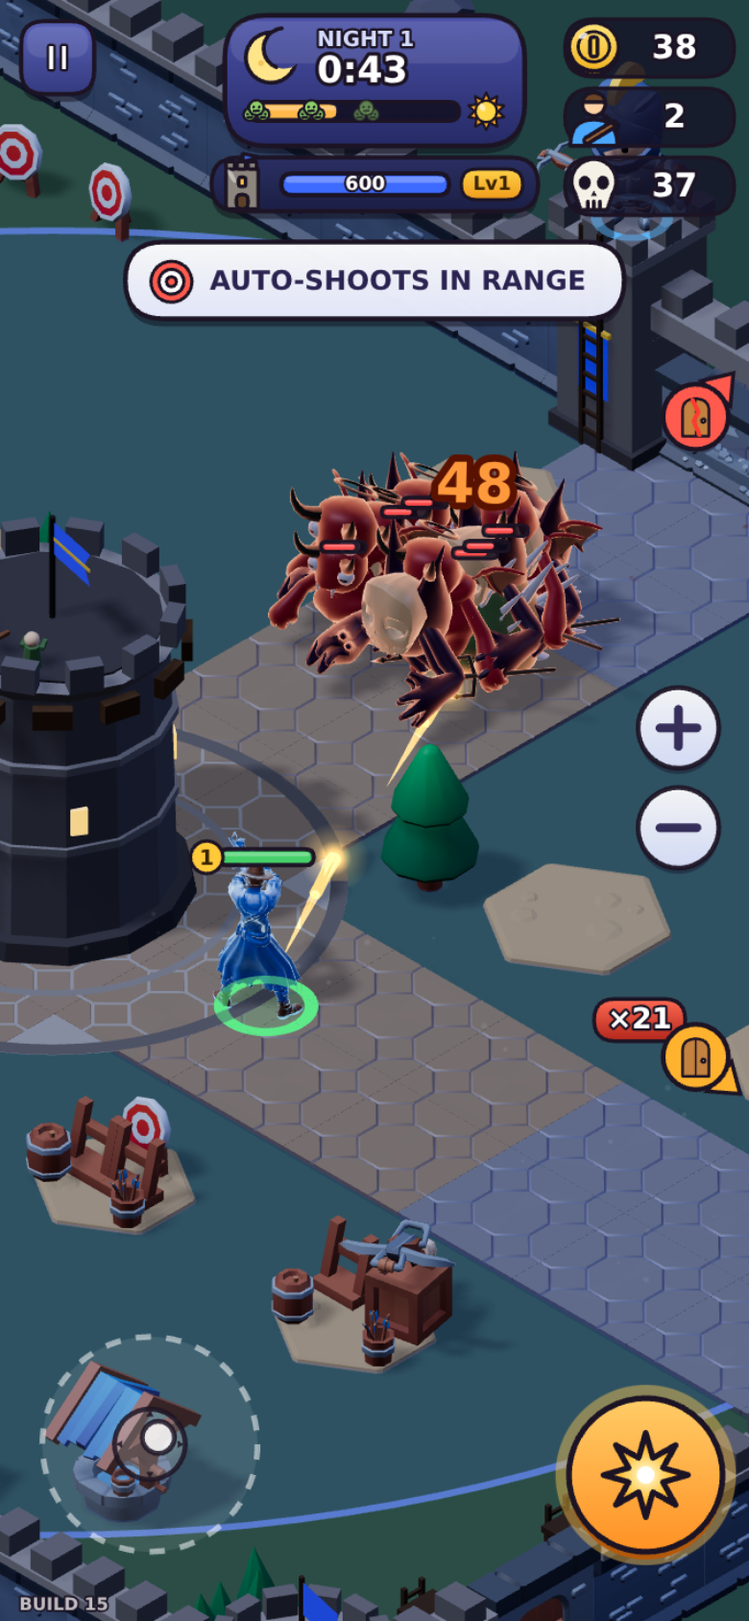
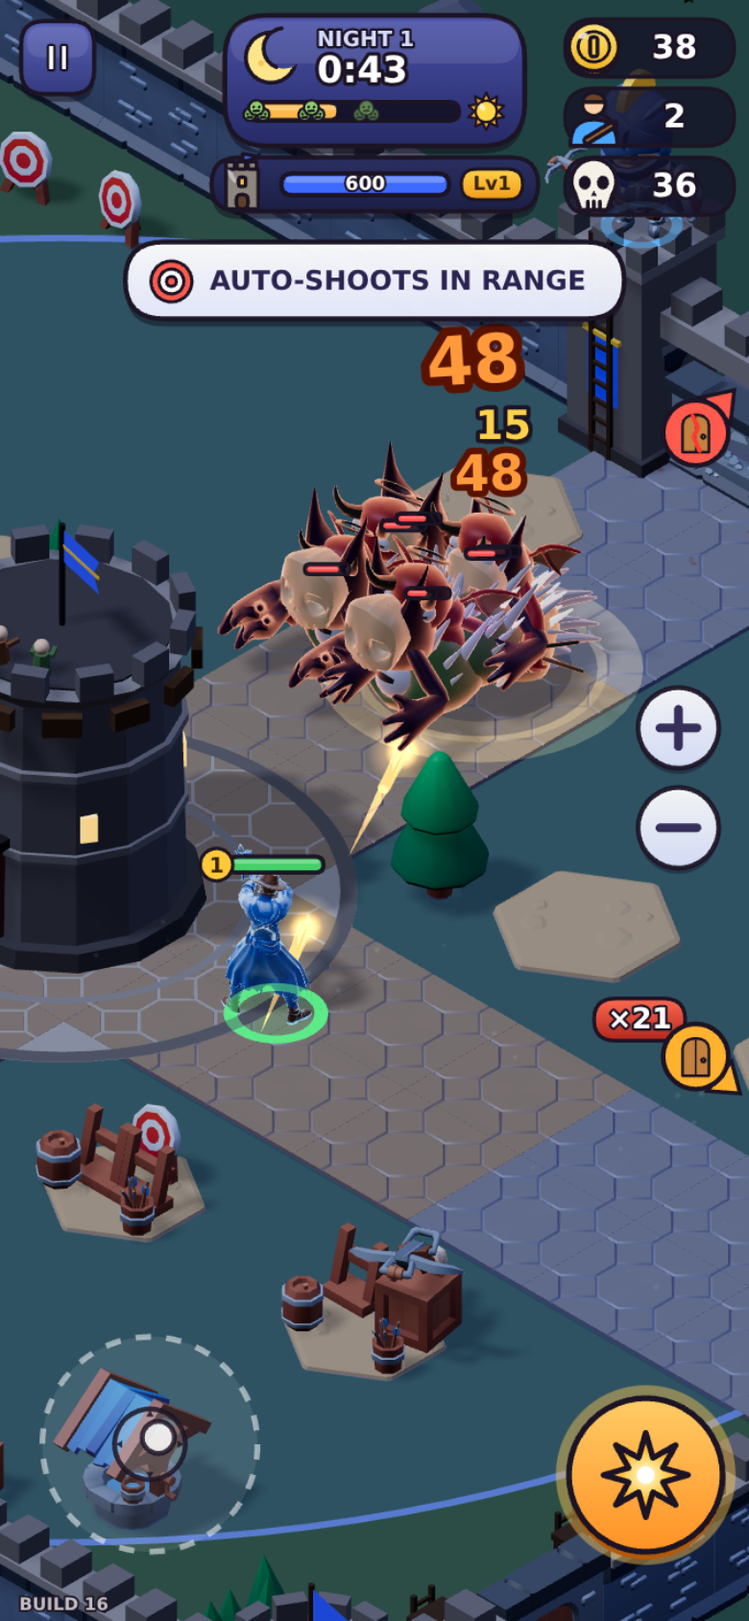
BUILD 16: docs + evidence — roadmap Pass BUILD 16 + acceptance #20, UX research R5/R6 status, qa-evidence/survival-build16
- plotsqa section 8 waits on the sim undrawn (__pFast) and draws only the
  judged moments (hundreds of queued DPR-2 frames stalled a screenshot);
  the scripted keep is clamped before the dawn card
- completeNight: the dawn's keep patch is never negative (a keep above its
  max — only in scripted QA — read '+-34790' on the card)
- evidence: night-cleared-sequence, compare-pointers (BUILD 15 vs 16),
  wave-call, last-one, tempo-5seed-72s (uxprobe before/after),
  balance-5seed-72s; FTUE frames re-stamped BUILD 16 by envqa

diff --git a/src/game/survival.js b/src/game/survival.js
@@ -3794,7 +3794,7 @@ export class SurvivalMode {
     // the keep as dawn found it (the end panel's "keep left", before the patch)
     this._keepAtDawn = this.keepHp / Math.max(1, this.keepHpMax());
     // the townsfolk patch part of the keep for free; the rest is wood by day
-    const missing = this.keepHpMax() - this.keepHp;
+    const missing = Math.max(0, this.keepHpMax() - this.keepHp);
     const patched = Math.round(missing * this.tuning.keepDawnHeal);
     this.keepHp = Math.min(this.keepHpMax(), this.keepHp + patched);
     this.repairDoors();

diff --git a/docs/REBUILD-ROADMAP.md b/docs/REBUILD-ROADMAP.md
@@ -1,7 +1,110 @@
 # Status Rebuild 3D & Survival Milestone 1
 
-**Pembaruan:** 2026-10-18 (Asia/Makassar), BUILD 15
-**Status keseluruhan: MASIH TERBUKA — bukan klaim siap rilis.** Inti rebuild dunia 3D dan loop Survival Milestone 1 sudah terimplementasi. Pada 2026-10-12 arah UI/UX dan threat model dikoreksi mengikuti feedback user; pada 2026-10-15 dilakukan pass analisis gap & bug (lihat bagian "Gap & bug pass 2026-10-15"), lalu pass progres Hunter + level bangunan (lihat "Progres Hunter & level bangunan"), lalu pass menara crossbow (lihat "Menara crossbow"), lalu pass guard yang bisa jatuh (lihat "Guard bisa jatuh"; termasuk perbaikan bug gelombang yang muncul di dalam rumah), dan seluruh gate otomatis dijalankan ulang. Setelah itu user memutuskan **game landscape only** dan meminta brainstorming + design system plan sebelum koding lagi (lihat "Arah desain & orientasi" dan `docs/DESIGN-SYSTEM-PLAN.md`; belum ada perubahan kode game untuk arah ini). Revisi 1 desain (konsep api) ditolak user. Di revisi 2 user memilih konsep **K1 "Benteng Terakhir"**, pola build **jalan ke lingkaran + BUILD**, dan nada **dark stylized**, lalu menyetujui semua rekomendasi aturan dan meminta "pastikan dunianya 3D". K1 kini **terimplementasi sebagai vertical slice** (lihat "K1 Benteng Terakhir — implementasi"); acceptance manusia/perangkat untuk K1 belum ada. Atas feedback user berikutnya, Survival kini dimainkan di **dunia benteng (bailey)** baru, bukan di dalam ruangan mansion (lihat "Dunia benteng untuk Survival"). Setelah itu kedua bookend cerita K1 dibuat: **intro sinematik** di malam pertama dan **adegan bala bantuan tiba** di fajar ke-3 (lihat "Bookend K1"); pemahaman pemain atas keduanya belum diuji. Lalu dibuat **riset UX & replay** dari review pemain (Play Store, Steam, Reddit, dan platform review lain) plus playtest bot "sebagai gamer" (lihat "Riset UX & replay" dan `docs/UX-REPLAY-RESEARCH.md`). Riset itu lalu diperdalam atas permintaan user agar tidak ada coding: v2 menambah review bintang 5, persona, peta perjalanan, dan protokol playtest; v3 menambah pemain Indonesia, analisis loop 3 lapis, dan uji HP kelas bawah. Setelah itu, atas feedback user, dibuat pass perbaikan: benteng diperkecil dan aktor diperbesar, pasukan memakai GLB (KayKit Knight, CC0), efek tembakan/damage diperkuat, kerja bangunan dibuat terlihat, dan UI dirapikan (NIGHT dipisah dari BUILD, panel fajar/akhir menghitung kontribusi). Dari rekomendasi riset, yang terbangun baru R1 sebagian, R18a, dan R19 (lihat "Perbaikan dari feedback user"). Lalu pesan "next" berikutnya dikerjakan sebagai P0 riset **"Momen akhir run"**: bintang 1–3, rekor + NEW BEST!, panel kalah "Ns TO DAWN" + satu tip dari penyebab nyata, dan MVP bangunan (R1–R4, R19; lihat "Momen akhir run"). R5 dan R6 belum. Lalu user melapor "tidak ada perubahan" (2026-10-17): dibuat **pass visual besar** — build yang benar sampai ke layar (service worker hanya di host rilis, preview tanpa cache, stempel BUILD 8), bailey setengah ukuran dengan aktor ×1,6 dan kamera lebih dekat, seluruh horde monster GLB (vertex animation texture), knight dimuat saat boot dengan helm biru berjambul, efek tembakan/damage lebih besar, ballista yang membunuh dan menandai kill-nya, koin mine di HUD, dan penanda gerbang dengan jumlah musuh (lihat "Pass visual besar"). Lalu user meminta lima perbaikan lagi (2026-10-17, "ada beberapa masih perlu di fix"): kamera dijauhkan sedikit dan bisa digeser, plot bangunan ditata rapi, bangunan memakai aset gratis yang diunduh (bukan prototipe), kartu diperkecil, dan trailer pembuka dipertahankan. Kelimanya terimplementasi di **BUILD 9** (lihat "Pass perbaikan BUILD 9"). Lalu user meminta gambar karakter manusia yang cerah dengan senjata terpisah (folder `ASSET_CHARACTER`, gambar konsep AI atas permintaan user) dan aturan gerbang yang benar. Di **BUILD 10** gerbang tertutup menahan tembakan, gerbang hanya terbuka untuk kapten, dan untuk melawan, kapten keluar ke mulut gerbang atau ke luar benteng (lihat "Pass BUILD 10"). Lalu user melapor kapten berjalan sendiri keluar benteng dan bailey terlihat terlalu padat. Di **BUILD 11** kapten tidak lagi digerakkan apa pun selain stick, gerbang hanya terbuka untuk arah stick, setiap jenis bangunan punya warna sendiri, plot terkunci dan tiang hantu disembunyikan, dan props dikurangi (lihat "Pass BUILD 11"). Lalu user melapor ukuran world dan tata letak bangunan masih sama, dan meminta riset visual dan UI/UX game sejenis tanpa coding. Riset itu ada di `docs/VISUAL-LAYOUT-RESEARCH.md` (lihat "Riset visual & tata letak"). User lalu memilih **Opsi B**, meminta peta Rise of Kingdoms dicek dulu, dan meminta kamera yang bisa diperbesar, diperkecil, dan digeser. Ketiganya dikerjakan di **BUILD 12**: bailey ×1,6 dengan distrik per fungsi dan plaza Keep, plus kamera dinamis (lihat "Pass BUILD 12"). Lalu user menulis "lanjut": 7 senjata `ASSET_CHARACTER` yang tersisa dibuat (kini 18/18), dan empat usulan "murah tapi terlihat jelas" dari riset §7 dikerjakan di **BUILD 13**: kapten terang (V8), label hanya saat dekat (V4), angka damage kecil yang digabung (V9), dan gerbang malam ini terlihat di siang hari (V10) (lihat "Pass BUILD 13"). Lalu user menulis "next": di **BUILD 14** senjata pasukan bisa di-upgrade. Ada rak senjata baru di samping armory dengan 3 level crossbow guard, yang terlihat di tangan setiap guard dan di warna bautnya. Pass ini juga memperbaiki bug lama: crossbow guard tidak pernah terpasang di tangan (lihat "Pass BUILD 14"). Lalu user menulis "next" lagi: di **BUILD 15** pertarungan malam dibuat terlihat utuh (V6 + V7 riset). Kamera malam condong ke gerombolan, pohon di kill zone depan gerbang ditebang jadi tunggul, menara di sisi dekat kamera direndahkan, dan kapten tampil sebagai siluet biru saat tertutup (lihat "Pass BUILD 15"). Acceptance visual/manual di perangkat, playtest manusia, dan packaging Play masih terbuka. Hasil tiap skrip hanya berlaku untuk cakupan yang benar-benar diuji.
+**Pembaruan:** 2026-10-18 (Asia/Makassar), BUILD 16
+**Status keseluruhan: MASIH TERBUKA — bukan klaim siap rilis.** Inti rebuild dunia 3D dan loop Survival Milestone 1 sudah terimplementasi. Pada 2026-10-12 arah UI/UX dan threat model dikoreksi mengikuti feedback user; pada 2026-10-15 dilakukan pass analisis gap & bug (lihat bagian "Gap & bug pass 2026-10-15"), lalu pass progres Hunter + level bangunan (lihat "Progres Hunter & level bangunan"), lalu pass menara crossbow (lihat "Menara crossbow"), lalu pass guard yang bisa jatuh (lihat "Guard bisa jatuh"; termasuk perbaikan bug gelombang yang muncul di dalam rumah), dan seluruh gate otomatis dijalankan ulang. Setelah itu user memutuskan **game landscape only** dan meminta brainstorming + design system plan sebelum koding lagi (lihat "Arah desain & orientasi" dan `docs/DESIGN-SYSTEM-PLAN.md`; belum ada perubahan kode game untuk arah ini). Revisi 1 desain (konsep api) ditolak user. Di revisi 2 user memilih konsep **K1 "Benteng Terakhir"**, pola build **jalan ke lingkaran + BUILD**, dan nada **dark stylized**, lalu menyetujui semua rekomendasi aturan dan meminta "pastikan dunianya 3D". K1 kini **terimplementasi sebagai vertical slice** (lihat "K1 Benteng Terakhir — implementasi"); acceptance manusia/perangkat untuk K1 belum ada. Atas feedback user berikutnya, Survival kini dimainkan di **dunia benteng (bailey)** baru, bukan di dalam ruangan mansion (lihat "Dunia benteng untuk Survival"). Setelah itu kedua bookend cerita K1 dibuat: **intro sinematik** di malam pertama dan **adegan bala bantuan tiba** di fajar ke-3 (lihat "Bookend K1"); pemahaman pemain atas keduanya belum diuji. Lalu dibuat **riset UX & replay** dari review pemain (Play Store, Steam, Reddit, dan platform review lain) plus playtest bot "sebagai gamer" (lihat "Riset UX & replay" dan `docs/UX-REPLAY-RESEARCH.md`). Riset itu lalu diperdalam atas permintaan user agar tidak ada coding: v2 menambah review bintang 5, persona, peta perjalanan, dan protokol playtest; v3 menambah pemain Indonesia, analisis loop 3 lapis, dan uji HP kelas bawah. Setelah itu, atas feedback user, dibuat pass perbaikan: benteng diperkecil dan aktor diperbesar, pasukan memakai GLB (KayKit Knight, CC0), efek tembakan/damage diperkuat, kerja bangunan dibuat terlihat, dan UI dirapikan (NIGHT dipisah dari BUILD, panel fajar/akhir menghitung kontribusi). Dari rekomendasi riset, yang terbangun baru R1 sebagian, R18a, dan R19 (lihat "Perbaikan dari feedback user"). Lalu pesan "next" berikutnya dikerjakan sebagai P0 riset **"Momen akhir run"**: bintang 1–3, rekor + NEW BEST!, panel kalah "Ns TO DAWN" + satu tip dari penyebab nyata, dan MVP bangunan (R1–R4, R19; lihat "Momen akhir run"). R5 dan R6 belum. Lalu user melapor "tidak ada perubahan" (2026-10-17): dibuat **pass visual besar** — build yang benar sampai ke layar (service worker hanya di host rilis, preview tanpa cache, stempel BUILD 8), bailey setengah ukuran dengan aktor ×1,6 dan kamera lebih dekat, seluruh horde monster GLB (vertex animation texture), knight dimuat saat boot dengan helm biru berjambul, efek tembakan/damage lebih besar, ballista yang membunuh dan menandai kill-nya, koin mine di HUD, dan penanda gerbang dengan jumlah musuh (lihat "Pass visual besar"). Lalu user meminta lima perbaikan lagi (2026-10-17, "ada beberapa masih perlu di fix"): kamera dijauhkan sedikit dan bisa digeser, plot bangunan ditata rapi, bangunan memakai aset gratis yang diunduh (bukan prototipe), kartu diperkecil, dan trailer pembuka dipertahankan. Kelimanya terimplementasi di **BUILD 9** (lihat "Pass perbaikan BUILD 9"). Lalu user meminta gambar karakter manusia yang cerah dengan senjata terpisah (folder `ASSET_CHARACTER`, gambar konsep AI atas permintaan user) dan aturan gerbang yang benar. Di **BUILD 10** gerbang tertutup menahan tembakan, gerbang hanya terbuka untuk kapten, dan untuk melawan, kapten keluar ke mulut gerbang atau ke luar benteng (lihat "Pass BUILD 10"). Lalu user melapor kapten berjalan sendiri keluar benteng dan bailey terlihat terlalu padat. Di **BUILD 11** kapten tidak lagi digerakkan apa pun selain stick, gerbang hanya terbuka untuk arah stick, setiap jenis bangunan punya warna sendiri, plot terkunci dan tiang hantu disembunyikan, dan props dikurangi (lihat "Pass BUILD 11"). Lalu user melapor ukuran world dan tata letak bangunan masih sama, dan meminta riset visual dan UI/UX game sejenis tanpa coding. Riset itu ada di `docs/VISUAL-LAYOUT-RESEARCH.md` (lihat "Riset visual & tata letak"). User lalu memilih **Opsi B**, meminta peta Rise of Kingdoms dicek dulu, dan meminta kamera yang bisa diperbesar, diperkecil, dan digeser. Ketiganya dikerjakan di **BUILD 12**: bailey ×1,6 dengan distrik per fungsi dan plaza Keep, plus kamera dinamis (lihat "Pass BUILD 12"). Lalu user menulis "lanjut": 7 senjata `ASSET_CHARACTER` yang tersisa dibuat (kini 18/18), dan empat usulan "murah tapi terlihat jelas" dari riset §7 dikerjakan di **BUILD 13**: kapten terang (V8), label hanya saat dekat (V4), angka damage kecil yang digabung (V9), dan gerbang malam ini terlihat di siang hari (V10) (lihat "Pass BUILD 13"). Lalu user menulis "next": di **BUILD 14** senjata pasukan bisa di-upgrade. Ada rak senjata baru di samping armory dengan 3 level crossbow guard, yang terlihat di tangan setiap guard dan di warna bautnya. Pass ini juga memperbaiki bug lama: crossbow guard tidak pernah terpasang di tangan (lihat "Pass BUILD 14"). Lalu user menulis "next" lagi: di **BUILD 15** pertarungan malam dibuat terlihat utuh (V6 + V7 riset). Kamera malam condong ke gerombolan, pohon di kill zone depan gerbang ditebang jadi tunggul, menara di sisi dekat kamera direndahkan, dan kapten tampil sebagai siluet biru saat tertutup (lihat "Pass BUILD 15"). Lalu user menulis "next" lagi: di **BUILD 16** tempo malam diperbaiki (R5 + R6 riset UX). Malam yang dibersihkan kini berakhir lebih cepat dengan bonus emas, sisa gerombolan yang tidak sedang bertarung lari ke hutan, dan setiap gelombang dipanggil dengan nama gerbangnya dan terompet. Pass ini juga memperbaiki panah tepi malam di HP landscape, yang kini berada di bingkai area main, bukan di dekat kepala kapten (lihat "Pass BUILD 16"). Acceptance visual/manual di perangkat, playtest manusia, dan packaging Play masih terbuka. Hasil tiap skrip hanya berlaku untuk cakupan yang benar-benar diuji.
+
+## Pass BUILD 16 — tempo malam: fajar lebih cepat, gelombang dipanggil (2026-10-18)
+
+**Pesan user:** "next" (setelah BUILD 15). Saya baca sebagai: kerjakan item terbuka berikutnya. Yang saya pilih adalah sisa P0 riset UX: **R5** (fajar lebih cepat) dan **R6** (kontak pertama ≤ 5 dtk). Keduanya terukur buruk di `survival-uxprobe` pada kode BUILD 15:
+- malam 3 yang dimenangkan berakhir dengan **7,7–9,6 dtk menunggu jam** setelah kill terakhir (bot builder; bot tower 10,9–14,2 dtk);
+- di malam 2–3 gerbang pertama baru diserang **4,4–5,1 dtk** setelah malam mulai, dan target pertama kapten bot builder baru muncul di 14,0–16,4 dtk.
+
+V1 dan V3 dari riset visual (butuh pass aset) belum dikerjakan.
+
+Stempel di layar kini **BUILD 16**, service worker `duskhold-v16`.
+
+### Yang baru di game
+
+**1. NIGHT CLEARED (R5).** Begitu semua spawn malam itu sudah keluar dan tidak ada musuh yang masih berdiri:
+- banner emas **"NIGHT CLEARED!"** dengan sub "DAWN COMES EARLY · +N GOLD", plus bunyi lonceng fajar;
+- pill malam berubah emas (matahari, "CLEARED / DAWN"), dan bar waktunya berlari ke ikon matahari;
+- cahaya **menghangat selama 2 detik**: rig cahaya dan warna tanah di-blend dari malam ke siang, lalu fajar datang. Fajar terlihat datang, bukan dipotong;
+- setiap detik penuh yang dihemat = **1 emas**. Bonus ini tampil sebagai baris sendiri di kartu fajar (koin dengan jam), dan judul kartu menjadi "NIGHT 2 CLEARED!" (bukan SURVIVED);
+- mine dibayar sisa shift malam yang tidak sempat digali, jadi fajar cepat tidak pernah mengurangi pendapatan.
+
+Reload di tengah 2 detik itu mempertahankan jam fajarnya. Malam yang "dibersihkan" dalam 2 detik terakhir tetap berakhir di jam biasa (sub "DAWN IS HERE", tanpa bonus).
+
+**2. Gerombolan pecah (tambahan saya, di luar usulan riset).** Saat diukur, aturan R5 murni hampir tidak pernah terpicu. Yang menahan malam bukan papan yang kosong, tapi **1–3 pejalan lambat terakhir** (Breaker 48 px/dtk, Individual) yang memutari tembok menuju gerbang jauh, lebih dari 1.000 px dari pertarungan mana pun. Mereka baru sampai setelah fajar. Maka, begitu semua spawn sudah keluar dan sisa musuh **≤ 3**:
+- yang **tidak sedang bertarung** berbalik dan lari ke hutan (120 px/dtk) dan hilang setelah 1,5 dtk. Ini **bukan kill**. "Sedang bertarung" berarti: di dalam tembok, di 200 px terakhir menuju gerbang, menyerang/mencakar, menyerang Keep, atau dalam jangkauan tembak kapten (540 px);
+- yang **masih bertarung** ditandai: banner **"LAST N!"** (sub "CLEAR THEM FOR AN EARLY DAWN"), chip tengkorak merah di atasnya, atau panah merah di tepi layar bila di luar layar;
+- setelah semuanya habis, banner NIGHT CLEARED berbunyi "THE REST FLED · +N GOLD".
+
+**3. Gelombang dipanggil (R6).**
+- Malam 2–3 melepas gelombang 1 di **1,5 %** malam (1,08 dtk; dulu 4 % = 2,88 dtk). Malam 1 tetap 4 %, karena trailer pembuka menyerahkan kendali tepat di tanda gelombang pertama, jadi di sana tidak ada detik kosong.
+- Setiap gelombang memunculkan banner "WAVE 1/3" dengan **nama gerbang dan jumlahnya** ("WEST GATE ×24", "SE POSTERN ×30"). Breaker: "BREAKER!" + "SOUTH GATE".
+- **Terompet horde** (suara prosedural baru, lebih rendah dan kasar dari terompet kapten) berbunyi untuk setiap gelombang dan Breaker, dari sisi layar tempat gerbangnya berada.
+- Panah tepi ke gerbang gelombang sudah ada sejak pass visual (ikon horde + ×N).
+
+**4. Bug lama yang ketemu: panah tepi malam di HP landscape duduk di atas kapten.** Kotak tempat panah tepi malam berjalan masih memakai margin portrait (128 px atas, 150 px bawah). Di layar 390 px, kotak itu tinggal pita 92 px di tengah layar, jadi panah ke gerbang di samping duduk dekat kepala kapten. Sekarang (`nightPointerBand`), di layar landscape panah berjalan di **bingkai area main**: 84 px di bawah tepi atas, 100 px di atas tepi bawah, 28 px dari sisi. Panah juga menghindari tombol zoom, FLARE, dan counter di tepi kanan. Ini berlaku untuk semua panah malam: gerbang, LAST N, Keep diserang, dan guard jatuh. Panah siang V10 sudah punya kotaknya sendiri.
+
+### Hasil terukur
+
+`survival-uxprobe`, 5 seed, malam 72 dtk. BUILD 15 diukur dengan probe yang sama di worktree `f9c1b1d`.
+
+| Ukuran | BUILD 15 | BUILD 16 |
+|---|---|---|
+| Ekor kosong (kill terakhir → fajar), malam 3, bot builder | 7,7–9,6 dtk | **2,0 dtk** |
+| Sama, bot tower | 10,9–14,2 dtk | **1,4–2,1 dtk** |
+| Sama, malam 2, bot builder | 0,1–10,3 dtk | **2,0–2,1 dtk** |
+| Malam 2 + 3 yang berakhir lebih cepat (NIGHT CLEARED), bot builder + tower | 0 dari 20 | **20 dari 20** |
+| Fajar malam 3 (jam) | 72 dtk | builder 65,3–66,5 dtk; tower 59,1–62,2 dtk |
+| Bonus emas fajar cepat | — | malam 2: 3–11; malam 3: 5–12 (malam 3: tidak terpakai, run selesai) |
+| Gerbang pertama diserang ("kontak"), malam 2–3 | 4,4–5,1 dtk | **2,6–3,2 dtk** |
+| Sama, malam 1 (tanpa trailer di probe; di browser trailer menyerahkan kendali di 2,88 dtk) | 4,9–5,4 dtk | sama (tidak diubah) |
+| Target pertama kapten bot builder, malam 2 / malam 3 | 16,3–16,4 / 14,0–14,4 dtk | **14,3–14,7 / 12,3–12,5 dtk** |
+| Target pertama pemain "rally" (langsung berjalan ke gerbang gelombang 1), malam 1 / 2 / 3 | 7,2–8,7 / 11,5 / 9,6 dtk | sama |
+| Panah gerbang barat/utara di layar 844×390, kapten di Keep | dekat kepala kapten (pita y 138–230) | di bingkai atas area main (y 94), 163–171 px dari kapten |
+
+`rally` adalah pemain baru khusus probe: bot builder di siang hari yang saat malam mulai langsung berjalan ke gerbang yang dipanggil, lalu memburu "LAST N" saat tidak ada pertarungan lain. Bot balance tidak memakainya.
+
+**Target R6 belum tercapai sepenuhnya.** Ukuran berhasil di riset adalah "target pertama ≤ 5 dtk di semua malam". Yang tercapai adalah gerbang diserang ≤ 5 dtk. Target pertama kapten masih 9,6–14,7 dtk, karena yang dominan adalah jalan kaki dari Keep ke gerbang (6–8 dtk dengan lari 196 px/dtk), bukan gelombangnya.
+
+### Balance (5 seed × 7 bot, malam 72 dtk)
+
+- **Malam 1 identik dengan BUILD 15** di seluruh 35 run (baris N1 sama persis).
+- Menang/kalah sama: idle, active, keep-builder 0/5; builder, tower-builder, hunter-builder 5/5 ★★★; arms-builder 5/5 dengan ★ 3,1,3,3,3 (BUILD 15: 3,1,3,1,1).
+- Waktu kalah active dan keep-builder bergeser 1–6 dtk.
+
+Catatan: versi pertama melepas gelombang 1 lebih cepat di **semua** malam. Di satu seed, Keep malam 1 lalu turun ke 20 % (★ turun ke 1 untuk tiga bot terkuat), karena gerbang utara dicakar ±2 dtk lebih lama sebelum bot sampai. Malam 1 sudah tidak punya detik kosong di browser (trailer), jadi perubahan itu dibatasi ke malam 2–3.
+
+### QA yang dijalankan (BUILD 16)
+
+| Perintah | Hasil |
+|---|---|
+| `node tools/harness.mjs` | **76/76 cek PASS** (+3 cek BUILD 16). (1) NIGHT CLEARED: banner + emas, fajar tepat 2 dtk kemudian, bonus = detik penuh yang dihemat (+19), bayaran sisa shift mine, cahaya 0 → 0,5 → 1 (exposure 1,08 → 1,13), reload mempertahankan jam fajar, tidak ada clear saat spawn masih tersisa atau papan disapu dengan tangan. (2) Gerombolan pecah: dua Individual jauh lari dan hilang tanpa kill, yang mencakar gerbang barat tetap ada dan dipanggil "LAST 1!", lalu malam cleared dengan "THE REST FLED". (3) R6: gelombang 1 malam 2–3 di 1,08 dtk, malam 1 di 2,88 dtk; panggilan "NORTH GATE ×21" / "WEST GATE ×24" / "SE POSTERN ×30"; terompet per gelombang dan per Breaker; gerbang dicakar di 2,8 dtk di malam 2–3 dengan kapten diam di Keep. Satu cek lama disesuaikan (guard jatuh yang ditinggal 20 dtk hilang): skenarionya menyapu gerombolan dari papan, yang kini memicu NIGHT CLEARED, jadi skenario itu kini menandai malamnya tanpa spawn |
+| `node tools/survival-plotsqa.mjs` | **30/30 PASS** (+3 cek B16 di browser). (1) NIGHT CLEARED: pill emas, luminansi tanah 96 → 110 (saat clear) → 133 (+1 dtk) → 162 (fajar), kartu fajar "NIGHT 2 CLEARED!" dengan baris emas. (2) "WAVE 1/3 · WEST GATE ×24" dengan terompet. (3) "LAST 1!" dan panah tengkorak di bingkai atas area main (y 94), 168 px dari kapten |
+| `node tools/survival-devqa.mjs` | **25/25 PASS** |
+| `node tools/envqa.mjs --mode=3d-smoke` | **PASS**. Bukti FTUE `qa-evidence/survival-ftue-*` ikut diperbarui dengan stempel BUILD 16 |
+| `node tools/survival-intro.mjs` | **PASS** (malam 1 tidak berubah: trailer menyerahkan kendali di tanda gelombang pertama) |
+| `node tools/survival-fxshots.mjs` | **14/14 PASS** (menang 3 malam nyata di browser: kill 66 + 78 + 91) |
+| `node tools/layoutqa.mjs` | Run pertama FAIL di cek gerak keyboard mode legacy: pemain bergerak maks 6,3 px dalam 1 dtk waktu nyata (batas 8 px). Ini cek waktu nyata di mode legacy, yang tidak disentuh BUILD 16. Run ulang sendirian **PASS** (19,9 px) |
+| `node tools/glbtest.mjs`, `swtest.mjs`, `survival-map.mjs` | **PASS**, PASS (`duskhold-v16`), **230/230** |
+| `node tools/survivalshots.mjs --landscape` | 26 shot, 0 page error |
+| `node tools/survival-look.mjs` | 7 shot, 0 error |
+| `node tools/bundlecheck.mjs` | hanya 1 FAIL lama (fingerprint signing release, menunggu kunci upload) |
+| `node tools/survival-uxprobe.mjs` (5 jenis pemain × 5 seed) | lihat "Hasil terukur" dan `tempo-5seed-72s.txt` |
+| `node tools/survival-balance.mjs --seeds=5 --duration=72` | lihat "Balance" |
+
+Setelah rantai QA browser selesai, satu baris kode diubah: tambalan Keep di fajar kini tidak pernah negatif. Pemicunya: skenario uji menaruh Keep di 99.999 HP, dan kartu fajar menampilkan "+-34790". Di permainan nyata HP Keep tidak pernah di atas maksimum. Setelah perubahan itu, harness (76/76), §8 plotsqa sendirian di DPR 2 (3/3), uxprobe, dan balance dijalankan ulang. uxprobe dan balance identik dengan run sebelumnya.
+
+**Bukti** (`qa-evidence/survival-build16/`):
+
+- `night-cleared-sequence.png`: tiga frame dari malam 2 yang sama: NIGHT CLEARED + pill emas → 1 dtk kemudian, cahaya menghangat → kartu fajar "NIGHT 2 CLEARED!" dengan baris +19 emas;
+- `compare-pointers.png`: BUILD 15 vs 16, skrip dan detik yang sama: dua gerombolan mencakar gerbang barat dan utara, kapten di Keep, layar 844×390;
+- `wave-call.png`: "WAVE 1/3 · WEST GATE ×24" di malam 2;
+- `last-one.png`: "LAST 1!" dan panah tengkorak merah ke gerombolan terakhir di gerbang barat;
+- `tempo-5seed-72s.txt`: `survival-uxprobe` sebelum/sesudah;
+- `balance-5seed-72s.txt`.
+
+**Belum / terbuka:**
+- R6 "target pertama ≤ 5 dtk" (lihat atas). Jalan kaki ke gerbang tetap 6–8 dtk.
+- Penilaian manusia di HP:
+  - apakah gerombolan yang lari terasa adil, bukan kemenangan gratis;
+  - apakah terompet terdengar jelas tanpa mengganggu;
+  - apakah fajar cepat terasa memuaskan;
+  - apakah panah di bingkai atas masih terbaca sebagai "ke sana".
+- Bonus emas malam 3 tidak terpakai (run selesai). Di malam 3 aturan ini hanya mempercepat kemenangan.
+- Malam 1 jarang "cleared", karena pertarungannya masih berlangsung sampai jam habis. Ini sesuai desain.
 
 ## Pass BUILD 15 — pertarungan malam terlihat utuh (2026-10-18)
 
@@ -1403,6 +1506,7 @@ Ini screenshot checkpoint, bukan rekaman, dan bukan review di perangkat fisik.
 17. **Pass BUILD 13 2026-10-18 (V8, V4, V9, V10):** kapten terang, label hanya saat dekat, angka damage kecil yang digabung, dan gerbang malam ini terlihat di siang hari. Semuanya lolos gate otomatis (lihat "Pass BUILD 13"). Belum: konfirmasi user bahwa layar menampilkan "BUILD 13"; penilaian manusia apakah kapten kini terbaca tanpa terlihat seperti hantu atau hologram, apakah label dekat cukup untuk mengenali bangunan, apakah angka kecil masih terasa kuat, dan apakah pemain bisa menyebut gerbang malam ini sebelum menekan NIGHT (uji riset §8).
 18. **Pass BUILD 14 2026-10-18 (senjata pasukan bisa di-upgrade):** rak senjata, kartu GUARD BOWS, tiga level busur guard yang terlihat di tangan setiap guard dan di warna baut, perbaikan socket tangan, serta tiga catatan BUILD 13. Semuanya lolos gate otomatis (lihat "Pass BUILD 14"). Belum: konfirmasi user bahwa layar menampilkan "BUILD 14"; penilaian manusia apakah busur terbaca di zoom normal, apakah rak ditemukan tanpa penjelasan, dan apakah biaya/kekuatan terasa pas.
 19. **Pass BUILD 15 2026-10-18 (V6 + V7: pertarungan malam terlihat utuh):** kamera malam condong ke gerombolan, kill zone + glacis (19 pohon jadi tunggul), menara sisi selatan/timur jadi bastion pendek, dan siluet biru kapten saat tertutup. Semuanya lolos gate otomatis; balance identik dengan BUILD 14 (lihat "Pass BUILD 15"). Belum: konfirmasi user bahwa layar menampilkan "BUILD 15"; penilaian manusia apakah geseran kamera membantu dan tidak membingungkan, apakah siluet terbaca sebagai kapten, apakah gerbang utama yang lebih pendek masih terbaca sebagai gerbang utama, dan uji fokus malam riset §8 (musuh, kapten, dan gerbang yang diserang langsung terlihat di screenshot malam).
+20. **Pass BUILD 16 2026-10-18 (R5 + R6: tempo malam):** NIGHT CLEARED dengan fajar 2 dtk kemudian (cahaya menghangat), bonus 1 emas per detik yang dihemat, bayaran sisa shift mine; gerombolan pecah (sisa ≤ 3 yang tidak bertarung lari, yang bertarung ditandai LAST N!); gelombang malam 2–3 dilepas di 1,5 %, setiap gelombang/Breaker dipanggil dengan nama gerbang dan terompet horde; panah tepi malam di HP landscape di bingkai area main. Semuanya lolos gate otomatis; malam 1 di balance identik dengan BUILD 15 (lihat "Pass BUILD 16"). Belum: konfirmasi user bahwa layar menampilkan "BUILD 16"; target R6 "target pertama kapten ≤ 5 dtk" (jalan kaki ke gerbang tetap 6–8 dtk); penilaian manusia apakah gerombolan yang lari terasa adil, apakah terompet terdengar jelas, dan apakah fajar cepat terasa memuaskan.
 
 ## Aturan laporan
 

diff --git a/docs/UX-REPLAY-RESEARCH.md b/docs/UX-REPLAY-RESEARCH.md
@@ -1,7 +1,7 @@
 # Riset UX & Replay — "Apakah pemain mau main sekali lagi?"
 
 **Status (2026-10-16, v2):** dokumen riset dan rekomendasi. **Belum ada kode untuk item §5.**
-*Pembaruan status implementasi (2026-10-16): dari §5 kini terbangun R1, R2, R3, R4, R19 (pass "Momen akhir run") dan R18a (pass feedback). R5, R6, dan P1/P2 lainnya belum. Rincian dan apa yang sudah di-assert ada di catatan status di bawah tabel P0. Semua verdict di dokumen ini tetap verdict desain + bot sampai ada playtest manusia.*
+*Pembaruan status implementasi (2026-10-16): dari §5 kini terbangun R1, R2, R3, R4, R19 (pass "Momen akhir run") dan R18a (pass feedback). Pembaruan 2026-10-18 (BUILD 16): R5 terbangun, R6 terbangun sebagian (gerbang diserang ≤ 5 dtk tercapai; target pertama kapten ≤ 5 dtk belum). P1/P2 belum. Rincian dan apa yang sudah di-assert ada di catatan status di bawah tabel P0. Semua verdict di dokumen ini tetap verdict desain + bot sampai ada playtest manusia.*
 Bukti playtest bot ada di `qa-evidence/ux-replay/` (`uxprobe.txt` dan `uxprobe.json`), dan bisa diulang dengan
 `node tools/survival-uxprobe.mjs`. Belum ada playtest manusia, jadi semua verdict di bawah adalah
 penilaian desain + bot, **bukan** hasil uji pemain.
@@ -522,8 +522,8 @@ Semua rekomendasi menghormati keputusan sebelumnya:
 | R2 | Terbangun dengan ambang usulan: ★ bertahan 3 malam, ★★ keep tidak pernah < 50 % HP, ★★★ + tidak ada guard hilang. | Bot 5 seed: builder ★★★ ×5 (keep terendah 88–100 %), tower-builder ★ ×4 (menang tipis, keep terendah 2–33 %). Sesuai ukuran berhasil. Harness meng-assert aturannya |
 | R3 | Terbangun: `save.survival.records` (runs, wins, bestStars, bestNights, bestKills, totalKills) + tag "NEW BEST!" (tidak muncul di run pertama). | devqa: rekor sama sebelum/sesudah reload. Harness: NEW BEST hanya saat rekor pecah, reload mempertahankan panel + rekor, PLAY AGAIN mempertahankan rekor |
 | R4 | Terbangun: "NIGHT n · Ns TO DAWN" (≤ 10 dtk: "SO CLOSE!"), track malam, satu tip ≤ 8 kata dari penyebab nyata. | Bot: idle → "WALK TO THE GATE UNDER ATTACK", active → "BUILD BY DAY: WALK INTO A CIRCLE", tower-builder → "BUILD A BALLISTA AT THE SE GATE". Sesuai 3 skenario ukuran berhasil. Harness meng-assert 6 penyebab. Apakah tip membantu manusia belum diuji |
-| R5 | **Belum.** Di bot, 2 musuh biasanya masih hidup saat fajar (spawn 68 / kill 66), jadi aturan "musuh hidup = 0" jarang terpicu tanpa mengubah tempo gelombang. Perlu pass tempo sendiri dengan `survival-uxprobe` | — |
-| R6 | **Sebagian (2026-10-17).** Bagian "gerbang ditandai" terbangun di pass visual: gelombang yang menuju gerbang tampil sebagai ikon horde + "×N" di atas gerbangnya, atau sebagai panah tepi dengan "×N" bila di luar layar. Kontak pertama ≤ 5 dtk belum (menyentuh FTUE dan tempo malam) | Tidak ada assertion otomatis untuk penanda ini; terlihat di screenshot `survival-look` |
+| R5 | **Terbangun (BUILD 16, 2026-10-18).** "NIGHT CLEARED!" begitu semua spawn keluar dan tidak ada musuh berdiri; fajar 2 dtk kemudian (cahaya menghangat), 1 emas per detik penuh yang dihemat (baris sendiri di kartu fajar), mine dibayar sisa shift. **Tambahan di luar usulan:** yang menahan malam ternyata 1–3 pejalan lambat terakhir yang memutari tembok ke gerbang jauh; begitu semua spawn keluar dan sisa ≤ 3, yang tidak sedang bertarung lari ke hutan (bukan kill), yang masih bertarung ditandai "LAST N!" | `survival-uxprobe` (5 seed): ekor kosong malam 3 bot builder 7,7–9,6 → **2,0 dtk**, bot tower 10,9–14,2 → **1,4–2,1 dtk**; malam 2+3 yang cleared 0/20 → 20/20. Harness: aturan, bonus, bayaran mine, reload, tanpa clear saat spawn tersisa; gerombolan pecah. `survival-plotsqa` §8: banner, pill emas, tanah makin terang (luminansi 96 → 110 → 133 → 162), kartu fajar |
+| R6 | **Sebagian (2026-10-17, BUILD 16).** Penanda gerbang terbangun di pass visual (ikon horde + "×N", atau panah tepi). BUILD 16: malam 2–3 melepas gelombang 1 di 1,5 % malam (malam 1 tetap 4 %, trailer menyerahkan kendali di sana); setiap gelombang dan Breaker dipanggil dengan nama gerbang + jumlah dan terompet horde dari sisi gerbangnya; panah tepi malam di HP landscape kini di bingkai area main (sebelumnya pita 92 px di tengah layar, dekat kepala kapten). **Belum:** target pertama kapten ≤ 5 dtk; jalan kaki Keep → gerbang (6–8 dtk) yang dominan | `survival-uxprobe`: gerbang pertama diserang malam 2–3 4,4–5,1 → **2,6–3,2 dtk**; target pertama bot builder malam 2/3 16,3–16,4 / 14,0–14,4 → 14,3–14,7 / 12,3–12,5 dtk; pemain `rally` (langsung ke gerbang yang dipanggil) 7,2–8,7 / 11,5 / 9,6 dtk. Harness: waktu gelombang 1, panggilan gerbang, terompet, Breaker. `survival-plotsqa` §8: banner "WAVE 1/3 · WEST GATE ×24", panah di bingkai |
 | R19 | Terbangun: MVP = ballista per lingkaran, ballista atap keep, atau guard, dengan kill terbanyak. **Penyimpangan dari contoh:** Kapten tidak pernah jadi MVP. Di bot yang bertahan (builder, hunter-builder, tower-builder, keep-builder, active), Kapten termasuk Flare mengambil 78–97 % kill, jadi MVP berbasis kill murni hampir selalu "CAPTAIN" dan tidak membuat bangunan terasa. | Harness: kill bolt ballista nyata tercatat di lingkarannya (MVP "SOUTH BALLISTA"), contoh "NORTH BALLISTA 31" mengalahkan guard 12 / Kapten 180. Catatan: di run bot, ballista jarang mendapat kill terakhir (tower-builder: 25–35 kill ballista per run dari 104–119 tembakan), sehingga MVP bot umumnya GUARDS (satu seed: SOUTH BALLISTA 14) |
 
 ### P1 — "Alasan untuk kembali"
